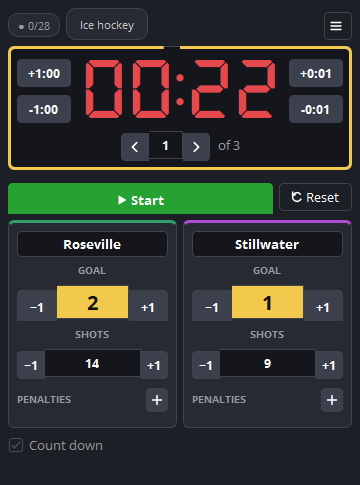
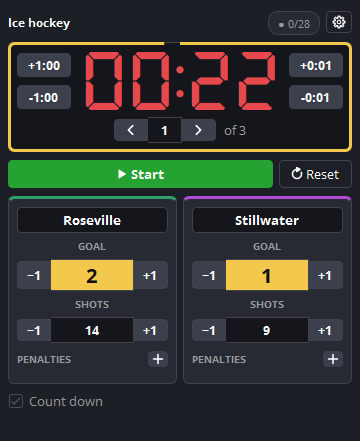
docs: README and changelog for the settings window and the update changelog

diff --git a/README.md b/README.md
@@ -88,7 +88,7 @@ checksums and a build attestation: `gh attestation verify <file> --repo angeloru
 
 ### Getting started
 
-1. Add a **Text** source for the clock, or create it from the dock menu: **⋮ → Settings → Source links… → +**.
+1. Add a **Text** source for the clock, or create it from the gear icon of the dock: **⚙ → Source links → +**.
 2. In *Source links…*, pick it for **Clock** (repeat for any other value).
 3. Press **Start**.
 
@@ -107,14 +107,14 @@ Enable the server under **Tools → WebSocket Server Settings**. The Stream Deck
 | Feature | Where | Behavior |
 |---|---|---|
 | File output | *Match settings → Output* | Off by default. One `.txt` per value in a folder you choose, rewritten only when its content changes. |
-| Event log | Dock menu → *Match → Event log…* | Lists events with times; exports YouTube chapters (`0:00 Title`) from stream start, recording start or game time, as text. |
-| Update check | Dock menu → *Updates* | *Check for updates now* asks GitHub on demand; *Check for updates at start* does it once per start. Sends only the plugin version; notifies, never installs. |
+| Event log | Gear icon → *Match control → Event log…* | Lists events with times; exports YouTube chapters (`0:00 Title`) from stream start, recording start or game time, as text. |
+| Update check | Gear icon → *Updates* | *Check for updates now* asks GitHub on demand; *Check for updates at start* does it once per start. When a newer release exists, the page shows its changelog and the dock shows an "Update" button. Sends only the plugin version; notifies, never installs. |
 
 ### Look
 
 | Feature | Where | Behavior |
 |---|---|---|
-| Sport | Dock header | The sport of the match is always shown next to the link indicator. |
+| Sport | Dock header | The sport of the match is always shown at the top left. |
 | Team colors | *Match settings → Look* | Accent color of each team card; "Default" restores blue and orange. |
 | Period progress | *Match settings → Look → Period progress* | The border of the clock frame shrinks with the time left (or fills with the time played). On by default; color and mode are yours, or turn it off. |
 | Clock color | *Match settings → Look → Clock digits* | Off by default. One color, or up to four steps by time left (for example amber at 1:00, red at 0:30), optionally blended. |
@@ -197,7 +197,7 @@ SHA-256 e un'attestazione della build: `gh attestation verify <file> --repo ange
 
 ### Primi passi
 
-1. Aggiungi una sorgente **Text** per il cronometro, oppure creala dal menu del pannello: **⋮ → Impostazioni → Collegamenti sorgenti… → +**.
+1. Aggiungi una sorgente **Text** per il cronometro, oppure creala dall'ingranaggio del pannello: **⚙ → Collegamenti → +**.
 2. In *Collegamenti sorgenti…* scegli quella sorgente per il **Cronometro** (e per gli altri valori che vuoi mostrare).
 3. Premi **Avvia**.
 
@@ -216,14 +216,14 @@ Attiva il server da **Strumenti → Impostazioni server WebSocket**. Il plugin S
 | Funzione | Dove | Comportamento |
 |---|---|---|
 | Output su file | *Impostazioni partita → Output* | Spento di default. Un `.txt` per valore nella cartella scelta, riscritto solo se il contenuto cambia. |
-| Registro eventi | Menu del pannello → *Partita → Registro eventi…* | Elenca gli eventi con l'orario; esporta i capitoli YouTube (`0:00 Titolo`) da inizio diretta, inizio registrazione o tempo di gioco, come testo. |
-| Controllo aggiornamenti | Menu del pannello → *Aggiornamenti* | *Controlla aggiornamenti ora* interroga GitHub su richiesta; *Controlla gli aggiornamenti all'avvio* lo fa una volta per avvio. Invia solo la versione del plugin; avvisa, non installa. |
+| Registro eventi | Ingranaggio → *Gestione partita → Registro eventi…* | Elenca gli eventi con l'orario; esporta i capitoli YouTube (`0:00 Titolo`) da inizio diretta, inizio registrazione o tempo di gioco, come testo. |
+| Controllo aggiornamenti | Ingranaggio → *Aggiornamenti* | *Controlla aggiornamenti ora* interroga GitHub su richiesta; *Controlla gli aggiornamenti all'avvio* lo fa una volta per avvio. Se esiste una versione più nuova la pagina mostra il changelog e il pannello un pulsante "Aggiorna". Invia solo la versione del plugin; avvisa, non installa. |
 
 ### Aspetto
 
 | Funzione | Dove | Comportamento |
 |---|---|---|
-| Sport | Intestazione del pannello | Lo sport della partita è sempre visibile accanto all'indicatore dei collegamenti. |
+| Sport | Intestazione del pannello | Lo sport della partita è sempre visibile in alto a sinistra. |
 | Colori squadra | *Impostazioni partita → Aspetto* | Colore d'accento della scheda di ogni squadra; "Predefinito" ripristina blu e arancione. |
 | Avanzamento del periodo | *Impostazioni partita → Aspetto → Avanzamento del periodo* | Il bordo del riquadro del cronometro si accorcia col tempo rimanente (o si riempie col tempo giocato). Attivo di default; colore e modalità a scelta, oppure spento. |
 | Colore del cronometro | *Impostazioni partita → Aspetto → Cifre del cronometro* | Spento di default. Un solo colore, oppure fino a quattro passaggi in base al tempo rimanente (ad esempio ambra a 1:00, rosso a 0:30), anche sfumati. |

diff --git a/CHANGELOG.md b/CHANGELOG.md
@@ -12,11 +12,16 @@ this project adheres to [Semantic Versioning](https://semver.org/spec/v2.0.0.htm
 - A new look for the dock and every window: one button style with a single height, segmented `[ -1 | 2 | +1 ]` counters with a larger score button, the clock in a framed display with the period and stoppage steppers under it, a card per team with its own accent color, icons drawn by the plugin (menu, plus, pencil, cross, play/pause, reset) instead of text glyphs, and a thin bar of the time left under each running penalty. Colors now come from the OBS theme, so the dock and the windows follow the dark and light themes (and the others OBS ships); only start green, stop red and the score and foul colors stay fixed.
 - Match settings, Penalty and Source links windows share the same look (tabs with an underline, a highlighted OK, colored swatches that show the color in use).
 
-- The dock menu is organized in sections (Match, Settings, Output, Updates). The About window is gone: the version is the last line of the Updates section.
+- The ⋮ menu is replaced by a gear icon that opens the settings window, now with a vertical list of pages: Match, Texts, Look, Output, Source links, Match control (new, resume, end, event log) and Updates. Fields keep the size of their content. The About window is gone: the version is on the Updates page.
+- The sport is shown as plain text at the top left of the dock.
+
+### Fixed
+
+- The goal, shots and fouls cells line up with their buttons and have the same width; the Stop button is no longer cut at the bottom; the Reset icon is drawn properly.
 
 ### Added
 
-- *Check for updates now* in the dock menu, with a message for "up to date" and for "could not check".
+- *Check for updates now* (Settings → Updates), with a message for "up to date" and for "could not check". A newer release shows its changelog, taken from GitHub, and an "Update" button in the dock.
 - The sport of the match is shown in the dock header.
 - Custom accent color for each team card (*Match settings → Look*).
 - A progress border around the clock: it shrinks with the time left of the period (or fills with the time played). On by default; mode and color in *Match settings → Look*, or off.
